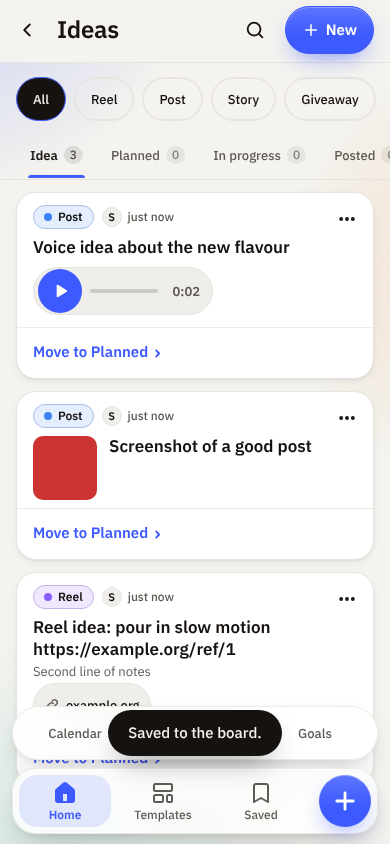
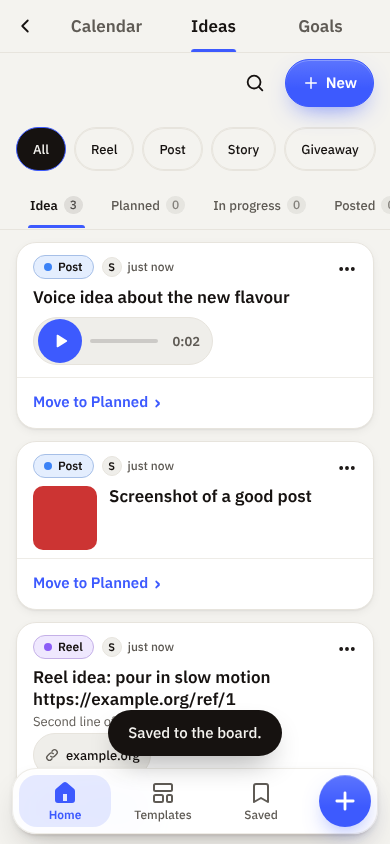
Ideas: shell-safe layout, no chip re-pop on the board; tests updated

diff --git a/assets/ideas.css b/assets/ideas.css
@@ -218,3 +218,7 @@ a.id-lnk{min-height:44px;margin-block:-6px}
 .id-voice .id-play{width:44px;height:44px;margin:-2px 0}
 .id-csend{width:auto;flex:none}
 .id-cin{flex:1 1 0;width:auto}
+/* inside the Plan shell the pane has its own padding and scroll */
+.plan-shell .ideas-view .id-top{margin-inline:0;padding:6px 0 4px;border-bottom:0}
+.plan-shell .ideas-view .id-head{padding-top:0}
+:root .ideas-view .chip[aria-pressed="true"]{animation:none}   /* the board redraws on every tap: no re-pop */
